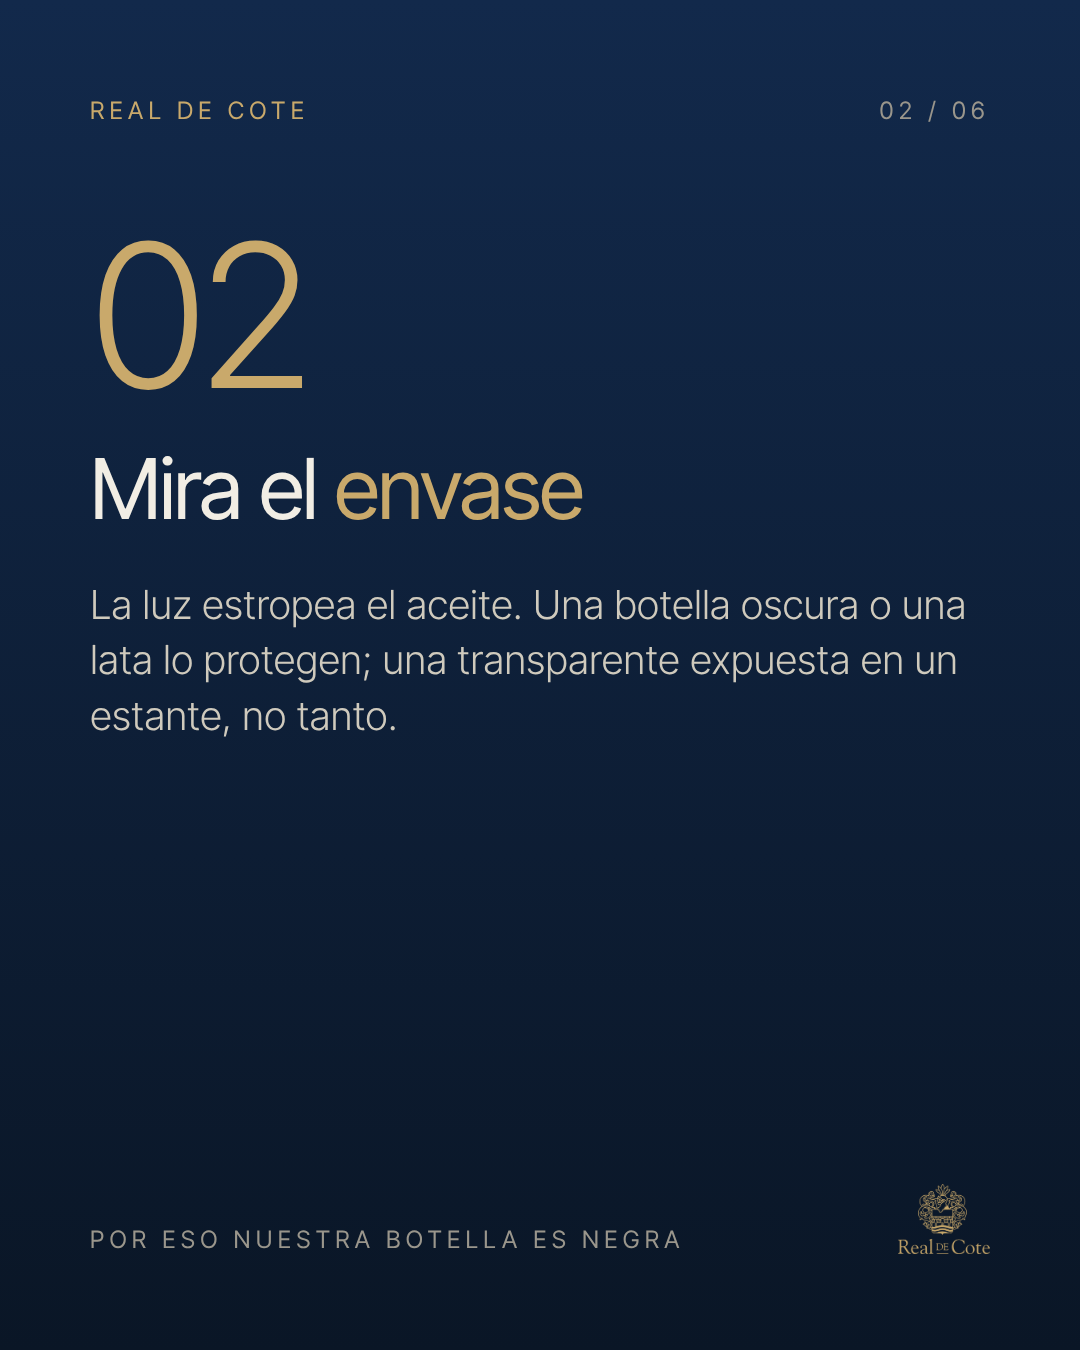
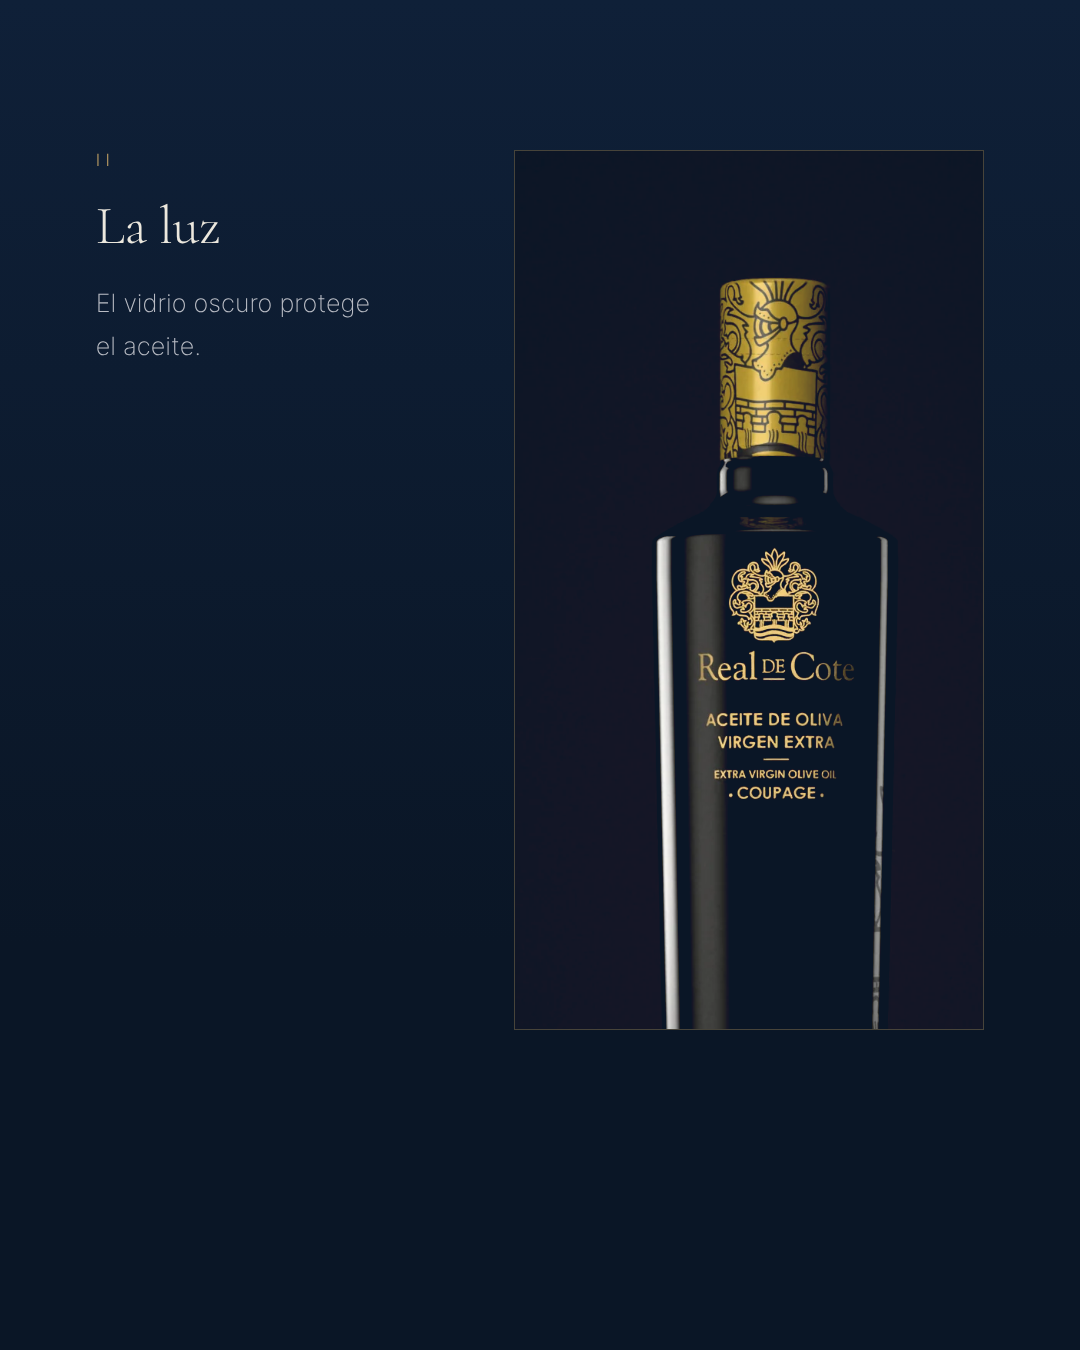
Redesign Day 4 carousel: quiet-luxury layout with brand photography
Claude-Session: https://claude.ai/code/session_01V2Rynvxapw1gCZn9iDyVeW

diff --git a/instagram/dia04/carrusel.html b/instagram/dia04/carrusel.html
@@ -1,98 +1,78 @@
 <!doctype html><html lang="es"><head><meta charset="utf-8">
-<link href="https://fonts.googleapis.com/css2?family=Inter+Tight:wght@300;400;500;600&display=swap" rel="stylesheet">
+<link href="https://fonts.googleapis.com/css2?family=Cormorant+Garamond:ital,wght@0,300;0,400;1,300&family=Inter+Tight:wght@200;300&display=swap" rel="stylesheet">
 <style>
-:root{--bg:#0b0b0c;--navy:#0a1626;--gold:#c9a96b;--ink:#f1ede4;--mut:#9a968c}
+:root{--navy:#0a1626;--gold:#b99a62;--ink:#ece8de;--mut:#8d9099}
 *{box-sizing:border-box;margin:0}
-body{background:#222;font-family:'Inter Tight',system-ui,sans-serif}
-.s{width:1080px;height:1350px;position:relative;overflow:hidden;background:linear-gradient(180deg,#12294b 0%,#0a1626 100%);color:var(--ink);padding:96px 90px;display:flex;flex-direction:column}
-.bg{position:absolute;inset:0;background-size:cover;background-position:center;opacity:.35;mix-blend-mode:luminosity}
-.shade{position:absolute;inset:0;background:linear-gradient(180deg,rgba(10,22,38,.55),rgba(10,22,38,.1) 45%,rgba(10,22,38,.7))}
-.s>*{position:relative}
-.top{display:flex;justify-content:space-between;font-size:24px;letter-spacing:.22em;text-transform:uppercase;color:var(--gold)}
-.top span:last-child{color:var(--mut)}
-.num{font-size:200px;font-weight:300;color:var(--gold);line-height:1;margin-top:90px;letter-spacing:-.04em}
-h1{font-weight:400;font-size:104px;line-height:1.02;letter-spacing:-.025em}
-h2{font-weight:400;font-size:84px;line-height:1.05;letter-spacing:-.02em;margin-top:30px}
-h1 em,h2 em{font-style:normal;color:var(--gold)}
-p{font-size:40px;line-height:1.38;color:#cfcabd;font-weight:300;margin-top:44px}
-.rule{width:90px;height:2px;background:var(--gold);margin:44px 0}
-.grow{flex:1}
-.foot{display:flex;justify-content:space-between;align-items:flex-end;font-size:24px;letter-spacing:.22em;text-transform:uppercase;color:var(--mut)}
-.foot img{height:70px}
-.bottle{position:absolute;right:-60px;bottom:-40px;height:900px;mix-blend-mode:lighten;mask-image:linear-gradient(90deg,transparent,#000 30%);-webkit-mask-image:linear-gradient(90deg,transparent,#000 30%)}
-.chips{display:flex;gap:16px;flex-wrap:wrap;margin-top:44px}
-.chip{border:1.5px solid var(--gold);color:var(--gold);padding:14px 28px;border-radius:99px;font-size:30px}
-.bad{color:#d98b7a}
+body{background:#222}
+.s{width:1080px;height:1350px;position:relative;overflow:hidden;background:linear-gradient(180deg,#0f2038,#0a1626 70%);color:var(--ink);font-family:'Inter Tight',sans-serif;font-weight:200}
+.abs{position:absolute}
+.ph{position:absolute;background-size:cover;background-position:center}
+.tint{position:absolute;inset:0}
+.cap{font-size:17px;letter-spacing:.34em;text-transform:uppercase;color:var(--gold);font-weight:300}
+.mut{color:var(--mut)}
+.serif{font-family:'Cormorant Garamond',serif;font-weight:300;letter-spacing:-.005em}
+.t{font-size:68px;line-height:1.08}
+.t i{font-style:italic;color:var(--gold)}
+.line{font-size:25px;line-height:1.7;color:#b9bcc4;font-weight:200;letter-spacing:.02em}
+.hair{position:absolute;background:rgba(185,154,98,.45)}
+.mark{position:absolute;width:104px;filter:drop-shadow(0 0 18px rgba(10,22,38,.9))}
 </style></head><body>
 
-<section class="s" id="s1" style="background:radial-gradient(ellipse 90% 60% at 50% 22%,#1b3a68 0%,#0f2342 45%,#0a1626 100%)">
- <div class="bg" style="background-image:url(foto_hileras-1440.jpg)"></div><div class="shade"></div>
- <img class="bottle" src="botellas_coupage_estudio.webp">
- <div class="top"><span>Real de Cote</span><span>Guía</span></div>
- <h1 style="margin-top:110px;max-width:900px">Cómo saber si tu aceite es <em>bueno</em></h1>
- <div class="rule"></div>
- <p style="margin-top:0;max-width:520px">6 señales que puedes comprobar en casa, sin ser catador.</p>
- <div class="grow"></div><div class="foot"><span>Desliza →</span><img src="logo-gold.png"></div>
+<!-- 1 · portada: foto aérea a sangre, título pequeño abajo -->
+<section class="s" id="s1">
+ <div class="ph" style="inset:0;background-image:url(foto_hileras-1440.jpg);background-size:140%;background-position:30% 40%"></div>
+ <div class="tint" style="background:linear-gradient(180deg,rgba(10,22,38,.55),rgba(10,22,38,.25) 40%,rgba(10,22,38,.92) 100%)"></div>
+ <img class="mark" src="logo-gold.png" style="left:488px;top:84px">
+ <div class="abs" style="left:96px;bottom:150px">
+  <div class="cap" style="margin-bottom:34px">Guía</div>
+  <div class="serif t" style="font-size:76px">Cómo reconocer<br>un buen <i>aceite</i></div>
+ </div>
+ <div class="hair" style="left:96px;bottom:110px;width:60px;height:1px"></div>
 </section>
 
+<!-- 2 · origen: foto en ventana descentrada -->
 <section class="s" id="s2">
- <div class="top"><span>Real de Cote</span><span>01 / 06</span></div>
- <div class="num">01</div>
- <h2>Lee la <em>etiqueta</em></h2>
- <p>Debe poner «aceite de oliva virgen extra», no «aceite de oliva» a secas. Busca también la campaña de cosecha y el origen.</p>
- <div class="grow"></div><div class="foot"><span>Primer filtro</span><img src="logo-gold.png"></div>
+ <div class="ph" style="left:96px;top:96px;width:620px;height:820px;background-image:url(foto_castillo-cote-1920.jpg);background-position:42% 40%"></div>
+ <div class="tint" style="left:96px;top:96px;width:620px;height:820px;inset:auto;background:rgba(10,22,38,.28);left:96px;top:96px"></div>
+ <div class="cap abs" style="left:96px;top:960px">I</div>
+ <div class="serif abs" style="left:96px;top:1000px;font-size:54px;line-height:1.1">El origen</div>
+ <div class="line abs" style="left:96px;top:1086px;width:470px">Cosecha y procedencia, siempre en la etiqueta.</div>
+ <div class="cap abs mut" style="right:96px;top:104px;writing-mode:vertical-rl;letter-spacing:.4em">Real de Cote</div>
 </section>
 
+<!-- 3 · luz: recorte de botella, ventana alta a la derecha -->
 <section class="s" id="s3">
- <div class="top"><span>Real de Cote</span><span>02 / 06</span></div>
- <div class="num">02</div>
- <h2>Mira el <em>envase</em></h2>
- <p>La luz estropea el aceite. Una botella oscura o una lata lo protegen; una transparente expuesta en un estante, no tanto.</p>
- <div class="grow"></div><div class="foot"><span>Por eso nuestra botella es negra</span><img src="logo-gold.png"></div>
-</section>
+ <div class="abs" style="right:96px;top:150px;width:470px;height:880px;overflow:hidden;border:1px solid rgba(185,154,98,.35);background:#0a1626">
+  <div style="position:absolute;inset:0;background-image:url(botellas_coupage_estudio.webp);background-size:1230px auto;background-position:-355px -130px;mix-blend-mode:lighten"></div>
+ </div>
+ <div class="cap abs" style="left:96px;top:150px">II</div>
+ <div class="serif abs" style="left:96px;top:196px;font-size:54px;line-height:1.1">La luz</div>
+ <div class="line abs" style="left:96px;top:282px;width:300px">El vidrio oscuro protege el aceite.</div>
+ </section>
 
+<!-- 4 · aroma: hoja a sangre, texto mínimo -->
 <section class="s" id="s4">
- <div class="top"><span>Real de Cote</span><span>03 / 06</span></div>
- <div class="num">03</div>
- <h2>Huele <em>antes</em> de probar</h2>
- <p>Un buen virgen extra huele a fruta fresca: aceituna verde, hierba recién cortada, tomate, almendra.</p>
- <div class="chips"><span class="chip">Hierba</span><span class="chip">Tomate</span><span class="chip">Almendra</span><span class="chip">Aceituna verde</span></div>
- <p><span class="bad">Mala señal:</span> olor a rancio, humedad o grasa vieja.</p>
- <div class="grow"></div><div class="foot"><span>La nariz no miente</span><img src="logo-gold.png"></div>
+ <div class="ph" style="inset:0;background-image:url(foto_hoja-1920.jpg);background-position:40% 50%"></div>
+ <div class="tint" style="background:linear-gradient(180deg,rgba(10,22,38,.15) 35%,rgba(10,22,38,.88) 100%)"></div>
+ <div class="abs" style="left:96px;bottom:150px">
+  <div class="cap" style="margin-bottom:30px">III</div>
+  <div class="serif" style="font-size:64px;line-height:1.1">El aroma</div>
+  <div class="line" style="margin-top:22px">Hierba, tomate, almendra.</div>
+ </div>
 </section>
 
+<!-- 5 · sabor: banda panorámica estrecha centrada, mucho aire -->
 <section class="s" id="s5">
- <div class="top"><span>Real de Cote</span><span>04 / 06</span></div>
- <div class="num">04</div>
- <h2>Prueba un <em>sorbito</em></h2>
- <p>Un toque de amargor y un picor en la garganta que te hace toser un poco son buena señal: indican frescura y presencia de polifenoles.</p>
- <p style="margin-top:30px">No es un defecto. Es carácter.</p>
- <div class="grow"></div><div class="foot"><span>Pruébalo solo, en cuchara</span><img src="logo-gold.png"></div>
+ <div class="ph" style="left:0;top:400px;width:1080px;height:360px;background-image:url(foto_bodega-1920.jpg);background-position:62% 30%;background-size:170%"></div>
+ <div class="tint" style="inset:auto;left:0;top:400px;width:1080px;height:360px;background:rgba(10,22,38,.25)"></div>
+ <div class="cap abs" style="left:96px;top:880px">IV</div>
+ <div class="serif abs" style="left:96px;top:922px;font-size:54px;line-height:1.1">El sabor</div>
+ <div class="line abs" style="left:96px;top:1008px;width:520px">Amargo y picante: señales de frescura.</div>
 </section>
 
+<!-- 6 · cierre -->
 <section class="s" id="s6">
- <div class="top"><span>Real de Cote</span><span>05 / 06</span></div>
- <div class="num">05</div>
- <h2>Desconfía del <em>precio</em> demasiado bajo</h2>
- <p>Cosechar a tiempo y extraer en frío con cuidado cuesta. Si un litro cuesta menos que un café, algo se ha quedado por el camino.</p>
- <div class="grow"></div><div class="foot"><span>Calidad = trabajo</span><img src="logo-gold.png"></div>
-</section>
-
-<section class="s" id="s7">
- <div class="top"><span>Real de Cote</span><span>06 / 06</span></div>
- <div class="num">06</div>
- <h2>Guárdalo <em>bien</em></h2>
- <p>Lejos de la luz y del calor, bien cerrado. Un buen aceite se echa a perder en una encimera junto a los fogones.</p>
- <div class="grow"></div><div class="foot"><span>Termina el día con luz baja</span><img src="logo-gold.png"></div>
-</section>
-
-<section class="s" id="s8" style="background:radial-gradient(ellipse 90% 60% at 50% 30%,#1b3a68 0%,#0f2342 45%,#0a1626 100%);align-items:center;text-align:center;justify-content:center">
- <div class="bg" style="background-image:url(foto_hoja-1920.jpg);opacity:.6"></div><div class="shade"></div>
- <img src="logo-gold.png" style="width:260px;margin-bottom:60px">
- <h1 style="font-size:92px">Prueba la diferencia</h1>
- <div class="rule" style="margin:44px auto"></div>
- <p style="margin-top:0">Cinco aceites. Una sola casa.<br>Sin filtrar. Montellano, Sevilla.</p>
- <p style="color:var(--gold);margin-top:60px;letter-spacing:.14em;text-transform:uppercase;font-size:30px">realdecote.es · @realdecote</p>
- <p style="font-size:28px;margin-top:40px;color:var(--mut)">Guárdalo y compártelo con quien siga comprando por el precio.</p>
+ <img src="logo-gold.png" style="position:absolute;width:170px;left:455px;top:520px">
+ <div class="cap abs" style="left:0;width:1080px;text-align:center;top:800px;letter-spacing:.4em;font-size:16px">realdecote.es</div>
 </section>
 </body></html>

diff --git a/instagram/dia04/shot.js b/instagram/dia04/shot.js
@@ -2,5 +2,5 @@ const {chromium}=require('playwright');
 (async()=>{const b=await chromium.launch({executablePath:'/opt/pw-browsers/chromium'}).catch(()=>chromium.launch());
 const p=await b.newPage({viewport:{width:1080,height:1350}});
 await p.goto('file://'+process.cwd()+'/carrusel.html',{waitUntil:'load'});await p.waitForTimeout(2500);
-for(let i=1;i<=8;i++){await p.locator('#s'+i).screenshot({path:`slide-0${i}.png`});}
+for(let i=1;i<=6;i++){await p.locator('#s'+i).screenshot({path:`slide-0${i}.png`});}
 await b.close()})();
